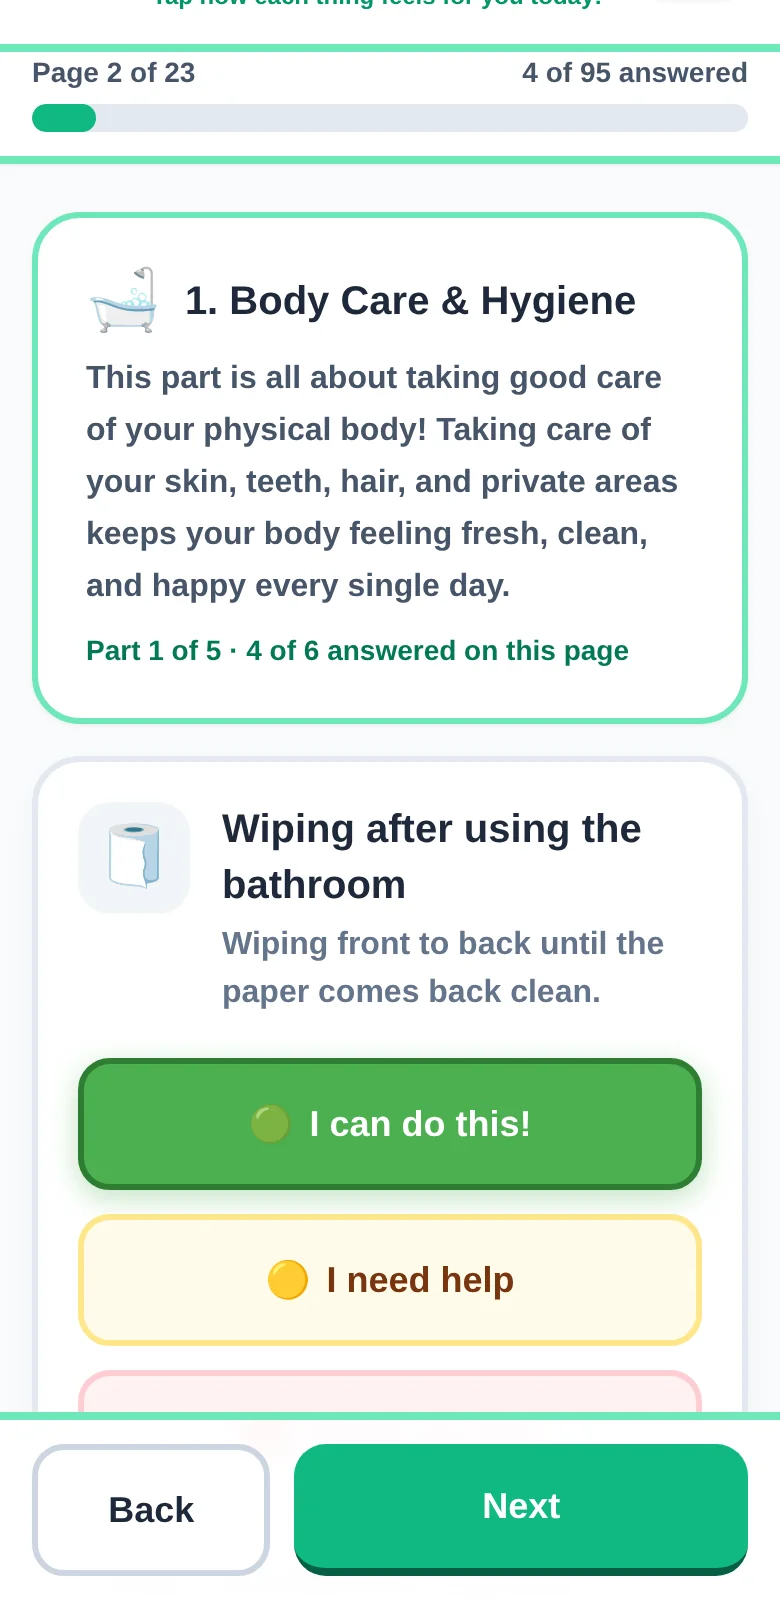
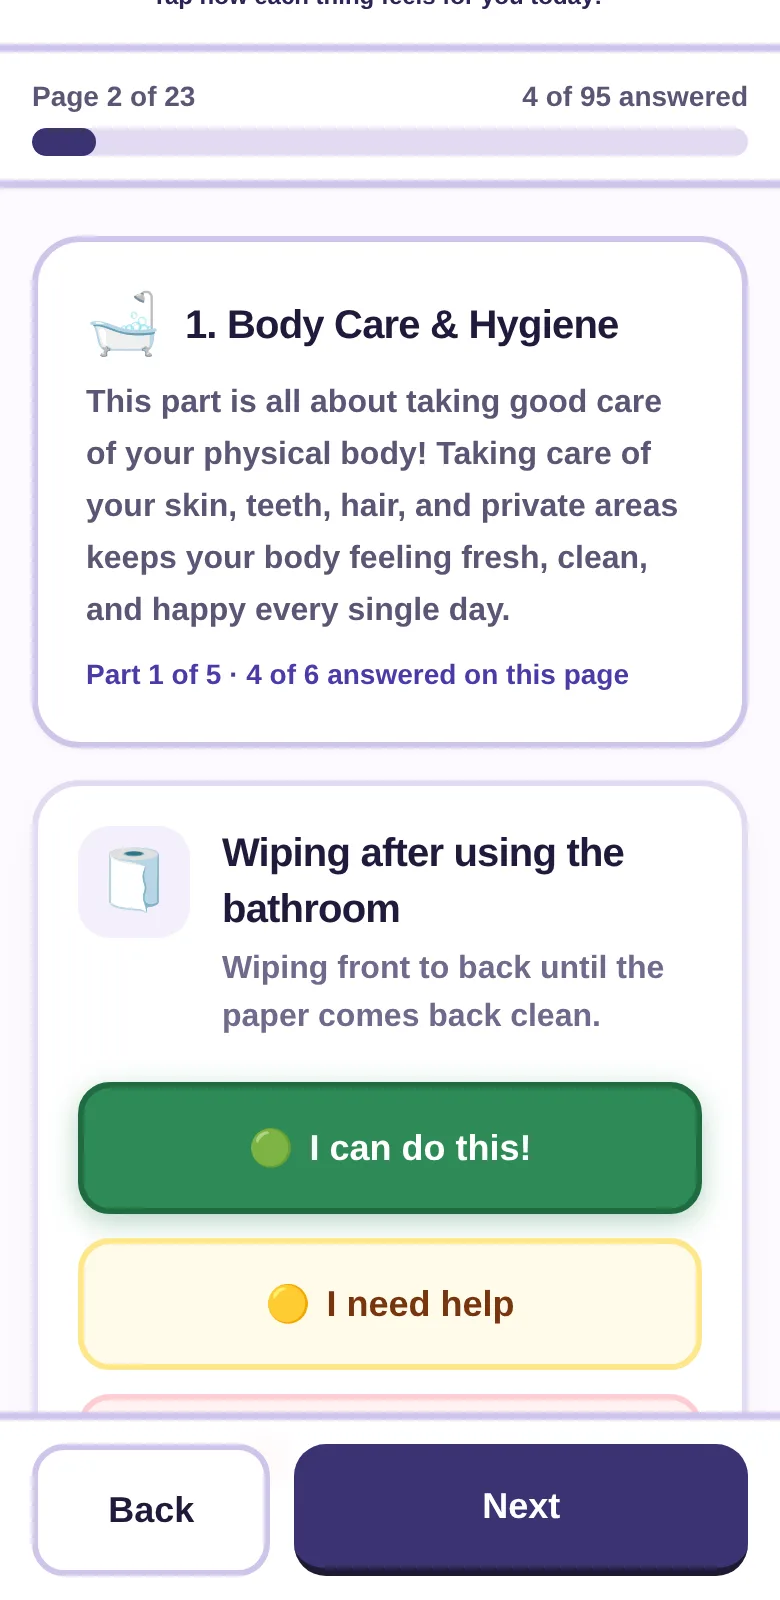
Match the inventory page theme to the main site
Claude-Session: https://claude.ai/code/session_01JfsV3z9ka5GZoFdnGNk5hN

diff --git a/inventory/index.html b/inventory/index.html
@@ -20,12 +20,25 @@
                 extend: {
                     fontFamily: {
                         sans: ['Lexend', 'sans-serif'],
+                    },
+                    colors: {
+                        slate: {50:'#FCFAFF',100:'#F4F0FC',200:'#E2DBF3',300:'#CFC5EA',400:'#B2ABD0',500:'#6F6A8C',600:'#5B5675',700:'#2B2557',800:'#1F1A3A',900:'#17142B',950:'#100D22'},
+                        teal: {50:'#F4F0FC',100:'#EAE4F8',200:'#E2DBF3',300:'#CFC5EA',400:'#B7A8FF',500:'#4A3AA8',600:'#3A3372',700:'#4A3AA8',800:'#2B2557',900:'#2B2557',950:'#1F1A3A'},
+                        emerald: {50:'#F4F0FC',100:'#EAE4F8',200:'#D8D0F5',300:'#CFC5EA',400:'#B7A8FF',500:'#3A3372',600:'#2B2557',700:'#4A3AA8',800:'#1E1A33',900:'#2B2557',950:'#1F1A3A'},
+                        purple: {50:'#F4F0FC',200:'#E2DBF3',300:'#CFC5EA',400:'#B7A8FF',500:'#4A3AA8',600:'#3A3372',700:'#2B2557',800:'#2B2557',900:'#1E1A33'},
+                        blue: {50:'#EAF3F4',200:'#C5DDE0',300:'#9CC5CA',400:'#8FC5CA',500:'#2F6A71',600:'#2F6A71',800:'#1F4A50',900:'#1F4A50'}
                     }
                 }
             }
         }
     </script>
     <style>
+        :root { --moon:#FFE8A3; --dusk:#2B2557; }
+        h1, h2, h3 { letter-spacing: -0.02em; }
+        :focus-visible { outline: 3px solid #FFE8A3; outline-offset: 3px; box-shadow: 0 0 0 6px #2B2557; }
+        .dark #progFill { background-color: #FFE8A3; }
+        .dark .text-white.bg-emerald-500, .dark .bg-emerald-500.text-white { background-color: #FFE8A3; color: #2B2557; border-color: #B7A8FF; }
+        .dark .hover\:bg-emerald-600:hover { background-color: #FFF3C9; }
         body {
             font-family: 'Lexend', sans-serif;
             -webkit-tap-highlight-color: transparent;
@@ -47,30 +60,30 @@
 
         /* Active Choice Highlighting */
         .selected-ok {
-            background-color: #4CAF50 !important;
+            background-color: #2E8A56 !important;
             color: #FFFFFF !important;
-            border-color: #2E7D32 !important;
-            box-shadow: 0 4px 14px rgba(76, 175, 80, 0.35);
+            border-color: #1F6A40 !important;
+            box-shadow: 0 4px 14px rgba(46, 138, 86, 0.35);
         }
         .selected-help {
-            background-color: #FFB74D !important;
+            background-color: #B87A14 !important;
             color: #FFFFFF !important;
-            border-color: #E65100 !important;
-            box-shadow: 0 4px 14px rgba(255, 183, 77, 0.35);
+            border-color: #8A5A0C !important;
+            box-shadow: 0 4px 14px rgba(184, 122, 20, 0.35);
         }
         .selected-teach {
-            background-color: #E57373 !important;
+            background-color: #C62F4B !important;
             color: #FFFFFF !important;
-            border-color: #C62828 !important;
-            box-shadow: 0 4px 14px rgba(229, 115, 115, 0.35);
+            border-color: #94213A !important;
+            box-shadow: 0 4px 14px rgba(198, 47, 75, 0.35);
         }
 
         /* Mode Select Button Highlighting */
         .sex-selected {
-            background-color: #0D9488 !important;
+            background-color: #2B2557 !important;
             color: #FFFFFF !important;
-            border-color: #0F766E !important;
-            box-shadow: 0 4px 12px rgba(13, 148, 136, 0.3);
+            border-color: #1E1A33 !important;
+            box-shadow: 0 4px 12px rgba(43, 37, 87, 0.3);
         }
 
         @keyframes gentle-pop {
@@ -91,22 +104,14 @@
     <header class="bg-white dark:bg-slate-800 border-b-4 border-emerald-300 dark:border-emerald-600 shadow-sm transition-colors duration-300">
         <div class="max-w-3xl mx-auto px-4 py-4 flex items-center justify-between">
             <div class="flex items-center gap-3 sm:gap-4">
-                <div class="w-12 h-12 sm:w-16 sm:h-16 bg-emerald-100 dark:bg-emerald-950 rounded-2xl sm:rounded-3xl flex items-center justify-center text-3xl sm:text-4xl shadow-inner flex-shrink-0">
-                    🧸
-                </div>
+                <img src="../favicon.png" alt="" class="w-12 h-12 sm:w-16 sm:h-16 rounded-2xl flex-shrink-0 bg-white">
                 <div>
-                    <h1 class="text-xl sm:text-2xl font-extrabold text-slate-800 dark:text-white tracking-wide">
+                    <h1 class="text-xl sm:text-2xl font-extrabold text-slate-800 dark:text-white">
                         Universal Safety and Care Inventory
                     </h1>
                     <p class="text-xs sm:text-sm font-bold text-emerald-600 dark:text-emerald-400">Tap how each thing feels for you today!</p>
                 </div>
             </div>
-            
-            <!-- Dark / Light Mode Toggle -->
-            <button onclick="toggleDarkMode()" class="option-btn p-3 rounded-2xl bg-slate-100 dark:bg-slate-700 border-2 border-slate-300 dark:border-slate-600 text-slate-700 dark:text-amber-300 font-extrabold flex items-center gap-2 shadow-sm">
-                <span id="themeIcon" class="text-2xl">🌙</span>
-                <span id="themeLabel" class="hidden md:inline text-sm font-bold">Dark Mode</span>
-            </button>
         </div>
     </header>
 
@@ -371,15 +376,10 @@
         let currentSexFilter = 'universal';
 
         window.onload = function() {
-            // Theme setup
-            const savedTheme = localStorage.getItem('univ_safety_theme');
-            if (savedTheme === 'dark' || (!savedTheme && window.matchMedia('(prefers-color-scheme: dark)').matches)) {
-                document.documentElement.classList.add('dark');
-                updateThemeUI(true);
-            } else {
-                document.documentElement.classList.remove('dark');
-                updateThemeUI(false);
-            }
+            const mq = window.matchMedia('(prefers-color-scheme: dark)');
+            const applyTheme = () => document.documentElement.classList.toggle('dark', mq.matches);
+            applyTheme();
+            if (mq.addEventListener) mq.addEventListener('change', applyTheme);
 
             // Sex filter setup
             currentSexFilter = localStorage.getItem('univ_safety_sex_filter') || 'universal';
@@ -402,24 +402,6 @@
             try { pageIndex = parseInt(localStorage.getItem('univ_safety_page_v1') || '0', 10) || 0; } catch (e) { pageIndex = 0; }
             renderFramework();
         };
-
-        function toggleDarkMode() {
-            const isDark = document.documentElement.classList.toggle('dark');
-            localStorage.setItem('univ_safety_theme', isDark ? 'dark' : 'light');
-            updateThemeUI(isDark);
-        }
-
-        function updateThemeUI(isDark) {
-            const icon = document.getElementById('themeIcon');
-            const label = document.getElementById('themeLabel');
-            if (isDark) {
-                icon.textContent = '☀';
-                label.textContent = 'Light Mode';
-            } else {
-                icon.textContent = '🌙';
-                label.textContent = 'Dark Mode';
-            }
-        }
 
         function setSexFilter(mode) {
             currentSexFilter = mode;
@@ -748,7 +730,7 @@
             return new Promise((resolve) => {
                 const can = window.TCLockCore && TCLockCore.canLock();
                 const dark = document.documentElement.classList.contains('dark');
-                const c = dark ? { bg: '#1e293b', fg: '#f1f5f9', mute: '#cbd5e1', line: '#475569', field: '#0f172a' } : { bg: '#ffffff', fg: '#1e293b', mute: '#475569', line: '#cbd5e1', field: '#ffffff' };
+                const c = dark ? { bg: '#1F1A3A', fg: '#EEEAFB', mute: '#B2ABD0', line: '#34305A', field: '#17142B' } : { bg: '#FCFAFF', fg: '#1E1A33', mute: '#5B5675', line: '#E2DBF3', field: '#ffffff' };
                 const ov = document.createElement('div');
                 ov.setAttribute('role', 'dialog'); ov.setAttribute('aria-modal', 'true'); ov.setAttribute('aria-label', 'Lock this file');
                 ov.style.cssText = 'position:fixed;inset:0;background:rgba(15,12,38,.62);z-index:9999;display:flex;align-items:center;justify-content:center;padding:1rem;font-family:Lexend,sans-serif';
@@ -765,13 +747,13 @@
                     <input id="tcpw2" type="password" autocomplete="new-password" autocapitalize="off" spellcheck="false" style="${fld}">
                     <p id="tcerr" role="alert" style="color:#d93025;font-weight:700;margin:0 0 .6rem" hidden></p>
                     <p style="margin:0;color:${c.mute};font-size:.9rem;line-height:1.5">Tip: three or four random words are easy to remember and hard to guess. Write it down somewhere safe. If you forget it, no one can open the file.</p>
-                    <button id="tcok" style="${btn('#7B4FC4', '#fff')}">Lock and save</button>
+                    <button id="tcok" style="${btn('#3A3372', '#fff')}">Lock and save</button>
                     <button id="tcshow" style="${btn('transparent', c.fg, '1.5px solid ' + c.line)}">Show what I typed</button>
                     <button id="tcskip" style="${btn('transparent', c.fg, '1.5px solid ' + c.line)}">Save without a password</button>
                     <button id="tccancel" style="${btn('transparent', c.mute)}">Cancel</button>` : `
                     <h2 style="font-size:1.35rem;font-weight:700;margin:0 0 .5rem">Save without a password?</h2>
                     <p style="margin:0 0 1rem;color:${c.mute};line-height:1.5">This browser cannot lock files, so the list would be saved as plain text that anyone with the file can read.</p>
-                    <button id="tcskip" style="${btn('#7B4FC4', '#fff')}">Save it anyway</button>
+                    <button id="tcskip" style="${btn('#3A3372', '#fff')}">Save it anyway</button>
                     <button id="tccancel" style="${btn('transparent', c.mute)}">Cancel</button>`;
                 ov.appendChild(box); document.body.appendChild(ov);
                 const q = (id) => box.querySelector('#' + id);
